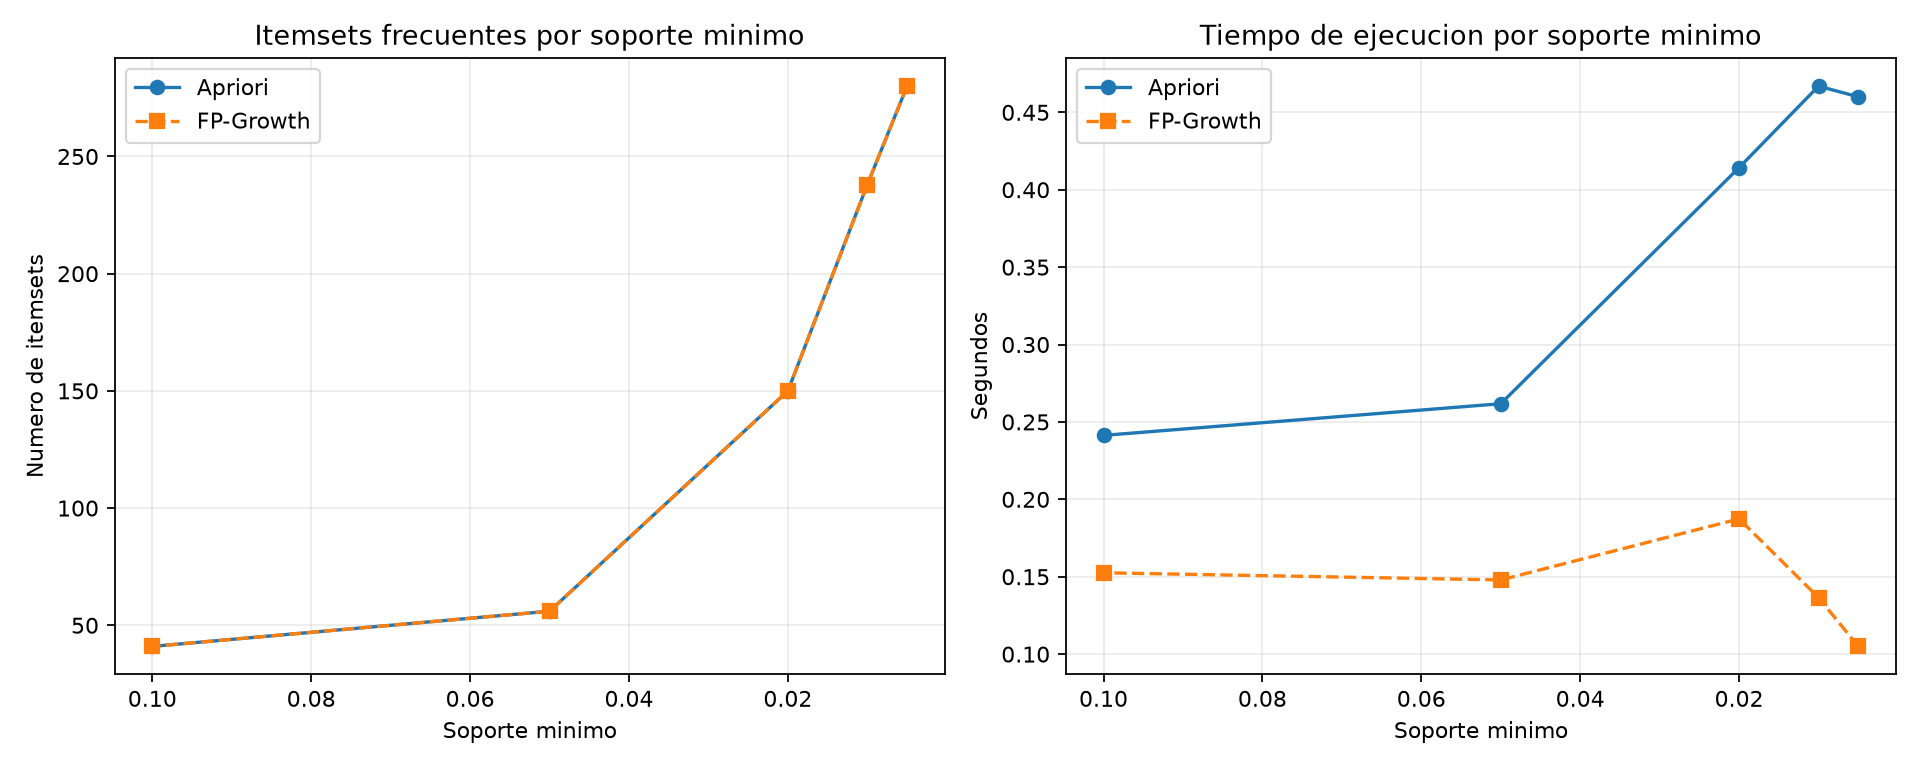
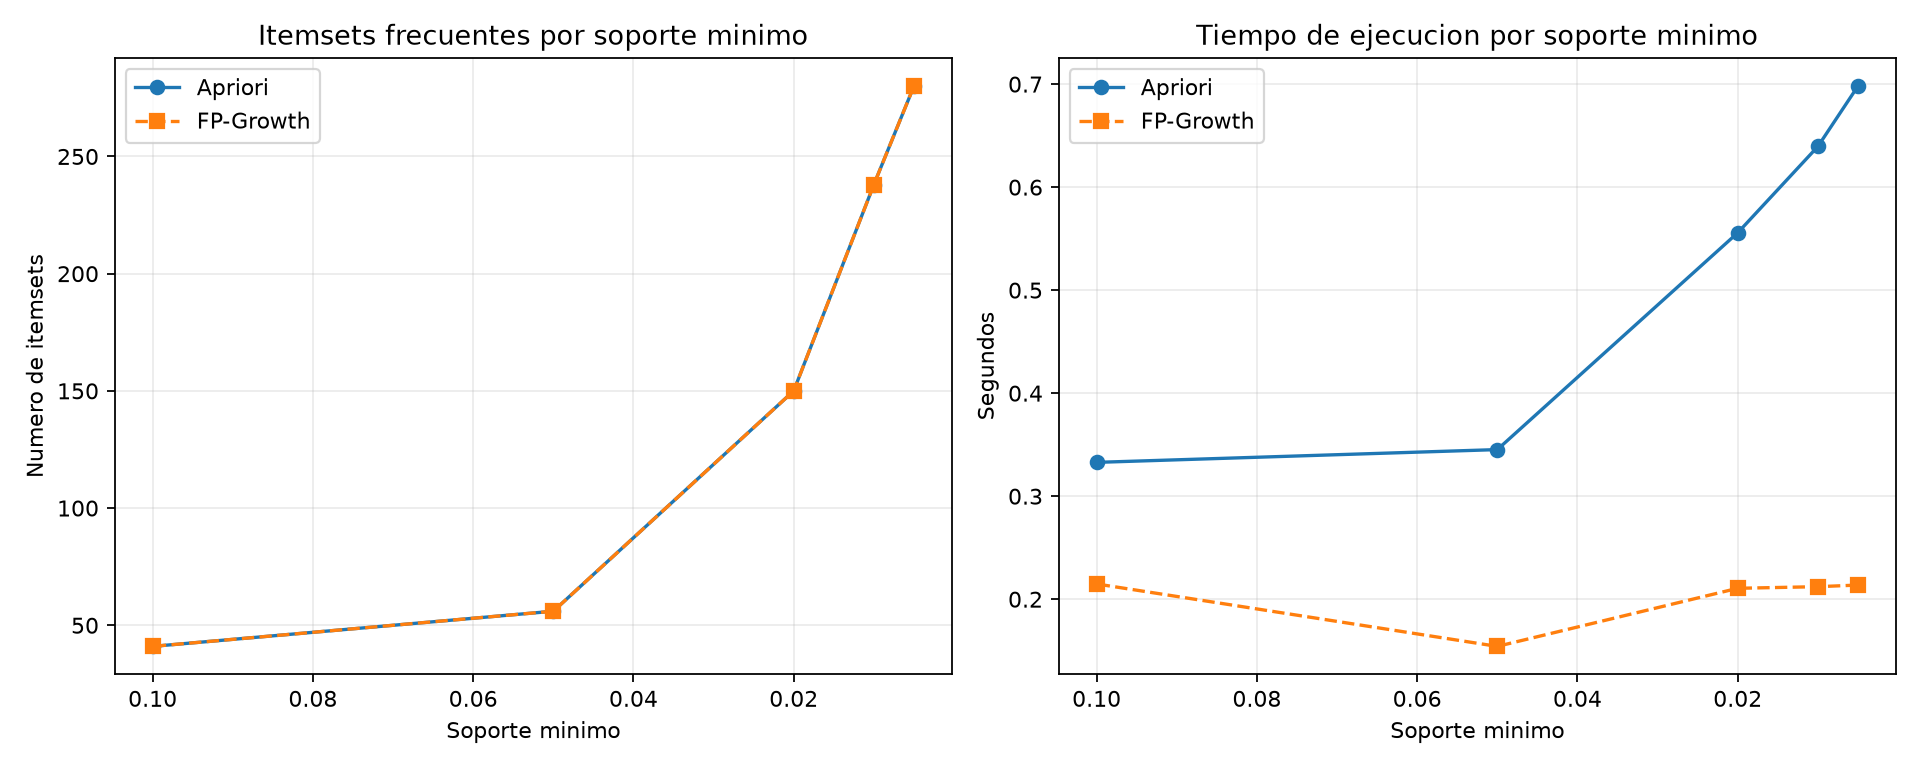
Graficas y visualizacion

diff --git a/proyecto/src/visualization/graficas.py b/proyecto/src/visualization/graficas.py
@@ -1,0 +1,94 @@
+from pathlib import Path
+
+import pandas as pd
+import matplotlib
+matplotlib.use("Agg")
+import matplotlib.pyplot as plt
+
+
+PROYECTO = Path(__file__).resolve().parents[2]
+DATOS = PROYECTO / "data" / "data-processed"
+FIGURAS = PROYECTO / "figures"
+
+
+def graficar_algoritmos():
+    archivo = DATOS / "comparacion_algoritmos.csv"
+
+    if not archivo.exists():
+        print("Falta comparacion_algoritmos.csv para hacer las graficas")
+        return
+
+    datos = pd.read_csv(archivo)
+    datos = datos.sort_values("min_support")
+    FIGURAS.mkdir(parents=True, exist_ok=True)
+
+    #Los dos algoritmos deben encontrar la misma cantidad de itemsets
+    plt.figure(figsize=(8, 5))
+    plt.plot(datos["min_support"], datos["itemsets_apriori"], marker="o", label="Apriori")
+    plt.plot(datos["min_support"], datos["itemsets_fp_growth"], marker="s", linestyle="--", label="FP-Growth")
+    plt.title("Itemsets frecuentes segun el soporte minimo")
+    plt.xlabel("Soporte minimo")
+    plt.ylabel("Numero de itemsets")
+    plt.legend()
+    plt.grid(alpha=0.3)
+    plt.tight_layout()
+    plt.savefig(FIGURAS / "itemsets_por_soporte.png", dpi=160)
+    plt.close()
+
+    #Comparamos los tiempos con los mismos valores de soporte
+    plt.figure(figsize=(8, 5))
+    plt.plot(datos["min_support"], datos["tiempo_apriori_segundos"], marker="o", label="Apriori")
+    plt.plot(datos["min_support"], datos["tiempo_fp_growth_segundos"], marker="s", linestyle="--", label="FP-Growth")
+    plt.title("Tiempo de ejecucion de los algoritmos")
+    plt.xlabel("Soporte minimo")
+    plt.ylabel("Tiempo (segundos)")
+    plt.legend()
+    plt.grid(alpha=0.3)
+    plt.tight_layout()
+    plt.savefig(FIGURAS / "tiempos_algoritmos.png", dpi=160)
+    plt.close()
+
+    print("Graficas de Apriori y FP-Growth guardadas")
+
+
+def graficar_metricas():
+    archivo = DATOS / "reglas_asociacion.csv"
+
+    if not archivo.exists():
+        print("Falta reglas_asociacion.csv para graficar las metricas")
+        return
+
+    datos = pd.read_csv(archivo)
+
+    if datos.empty:
+        print("No hay reglas para graficar")
+        return
+
+    FIGURAS.mkdir(parents=True, exist_ok=True)
+
+    #Vemos como se distribuyen las tres metricas entre las reglas encontradas
+    fig, graficas = plt.subplots(1, 3, figsize=(14, 4))
+    columnas = ["soporte", "confianza", "lift"]
+    nombres = ["Soporte", "Confianza", "Lift"]
+
+    for i in range(3):
+        graficas[i].hist(datos[columnas[i]], bins=15, edgecolor="black")
+        graficas[i].set_title(nombres[i])
+        graficas[i].set_xlabel(nombres[i])
+        graficas[i].set_ylabel("Numero de reglas")
+
+    fig.suptitle("Distribucion de las metricas de asociacion")
+    plt.tight_layout()
+    plt.savefig(FIGURAS / "distribucion_metricas.png", dpi=160)
+    plt.close()
+
+    print("Grafica de metricas guardada")
+
+
+def generar_graficas():
+    graficar_algoritmos()
+    graficar_metricas()
+
+
+if __name__ == "__main__":
+    generar_graficas()

diff --git a/proyecto/main.py b/proyecto/main.py
@@ -1,32 +1,43 @@
+from src.preprocessing import transacciones
+from src.mining.algoritmos import ejecutar_comparacion
+from src.association import reglas, analisis_reglas
+from src.visualization.graficas import generar_graficas
 
-from pathlib import Path
-import runpy
 
+def procesar_datos():
+    #Preparamos los datos originales para obtener las transacciones por hora
+    datos = transacciones.cargar_datos()
+    transacciones.analizar_faltantes(datos)
+    datos = transacciones.preparar_fechas(datos)
+    transacciones.verificar_faltantes(datos)
+    datos = transacciones.eliminar_faltantes(datos)
+    transacciones.analizar_cobertura_horaria(datos)
 
-RUTA_PROYECTO = Path(__file__).resolve().parent
+    #Agrupamos los registros y generamos los items
+    datos = transacciones.agrupar_por_hora(datos)
+    datos = transacciones.generar_items(datos)
+    datos = transacciones.generar_items_temporales(datos)
+    transacciones.guardar_dataset(datos)
 
-def ejecutar_script(ruta: str) -> None:
-    archivo = RUTA_PROYECTO / ruta
-    if not archivo.is_file():
-        raise FileNotFoundError(f"No se encontró el archivo: {archivo}")
-    print(f"\n{'=' * 60}")
-    print(f"Ejecutando: {ruta}")
-    print(f"{'=' * 60}\n")
-
-    runpy.run_path(str(archivo), run_name="__main__")
 
 def main():
-    scripts = [
-        "src/preprocessing/transacciones.py",
-        "src/mining/algoritmos.py",
-        "src/association/reglas.py",
-        "src/association/analisis_reglas.py"
-    ]
+    print("\n1. Preparando las transacciones")
+    procesar_datos()
 
-    for script in scripts:
-        ejecutar_script(script)
+    print("\n2. Ejecutando Apriori y FP-Growth")
+    ejecutar_comparacion()
 
-    print("\nProceso completado correctamente.")
+    print("\n3. Generando las reglas de asociacion")
+    reglas.main()
+
+    print("\n4. Analizando las reglas")
+    analisis_reglas.main()
+
+    print("\n5. Generando las graficas")
+    generar_graficas()
+
+    print("\nTerminado correctamente")
+
 
 if __name__ == "__main__":
     main()

diff --git a/proyecto/README.md b/proyecto/README.md
@@ -37,60 +37,91 @@ El archivo original contiene **2,075,259 registros y 9 columnas**.
 
 ```text
 proyecto/
+│
 ├── data/
 │   ├── data-raw/
-│   │   └── household_power_consumption.txt
+│   │   └── .gitkeep
+│   │
 │   └── data-processed/
-│       └── input_reglas_asociacion.csv
+│       └── .gitkeep
+│
+├── figures/
 │
 ├── src/
 │   ├── preprocessing/
 │   │   └── transacciones.py
+│   │
 │   ├── mining/
+│   │   └── algoritmos.py
+│   │
 │   ├── association/
+│   │   ├── reglas.py
+│   │   └── analisis_reglas.py
+│   │
 │   └── visualization/
+│       ├── __init__.py
+│       └── graficas.py
 │
-├── figures/
-├── presentacion/
 ├── main.py
 ├── requirements.txt
+├── .gitignore
 └── README.md
 ```
 
-El dataset original no se incluye en GitHub debido a su tamaño. Debe descargarse desde UCI y colocarse en `data/data-raw/`.
+El dataset original no se incluye en el repositorio debido a
+su tamaño. Se debe descargar desde UCI Machine Learning
+Repository y colocar en `data/data-raw/`
 
 ## 4. Instalación y ejecución
 
-Desde la carpeta `proyecto/`, crear y activar un entorno virtual:
+Para ejecutar el proyecto es necesario tener Python instalado
+y descargar el dataset original desde UCI Machine Learning
+Repository.
+
+El archivo `household_power_consumption.txt` debe colocarse
+en `data/data-raw/`.
+
+### 4.1. Crear el entorno virtual
+
+Desde la carpeta `proyecto/`, ejecutar:
 
 ```bash
 python3 -m venv .venv
+```
+
+Activar el entorno virtual:
+
+```bash
 source .venv/bin/activate
 ```
 
-Instalar las dependencias:
+### 4.2. Instalar las dependencias
+
+Instalar las bibliotecas necesarias:
 
 ```bash
 python -m pip install -r requirements.txt
 ```
 
-Ejecutar el preprocesamiento:
+### 4.3. Ejecutar la práctica
+
+Para ejecutar todas las etapas del programa:
 
 ```bash
-python src/preprocessing/transacciones.py
+python main.py
 ```
 
-Esto genera el archivo `input_reglas_asociacion.csv` dentro de `data/data-processed/`.
+El programa realiza las siguientes actividades:
 
-Ejecutar Apriori y FP-Growth:
+1. Carga y limpieza del dataset original.
+2. Construcción de las transacciones horarias.
+3. Ejecución de Apriori y FP-Growth.
+4. Generación de las reglas de asociación.
+5. Analisis de las reglas encontradas.
+6. Generación de las graficas.
 
-```bash
-python src/mining/algoritmos.py
-```
-
-Esto genera los archivos e imagen `comparacion_algoritmos.csv`,  `input_reglas_asociacion.csv` y `itemsets_frecuentes.csv`, `comparacion_algoritmos` dentro de `data/data-processed/` y `figures/comparacion_algoritmos.png` repsectivmante.
-
----
+Los resultados se guardan en las carpetas
+`data/data-processed/` y `figures/`
 
 ## 5. Preprocesamiento y construcción de transacciones 
 
@@ -229,3 +260,66 @@ Los conteos se midieron para min_support = 0.10, 0.05, 0.02, 0.01 y 0.005. En to
 Al bajar el soporte de 0.100 a 0.005, el número de itemsets pasó de 41 a 280. Un umbral bajo permite encontrar patrones poco comunes, pero aumenta el volumen de resultados y el riesgo de incluir coocurrencias casuales. Un umbral alto reduce el costo y deja solo patrones comunes, aunque puede omitir asociaciones raras.
 
 En esta ejecución, Apriori fue más rápido en 0 de 5 umbrales y FP-Growth en 5. Los tiempos son una medición puntual del equipo y pueden variar entre ejecuciones; FP-Growth evita la generación de candidatos, mientras que Apriori es más directo para este conjunto de ítems relativamente acotado.
+
+
+---
+
+
+---
+
+## 6. Integración y visualización de resultados
+
+El archivo `main.py` permite ejecutar todas las etapas de
+la practica, utilizando las funciones desarrolladas en los
+diferentes módulos del proyecto
+
+### 6.1. Visualizaciones
+
+Se utilizo Matplotlib para generar las gráficas y Pandas
+para leer los resultados guardados en archivos CSV.
+
+Las imágenes generadas se guardan en la carpeta `figures/`
+
+**Gráficas de Apriori y FP-Growth:**
+
+- `comparacion_algoritmos.png`: comparación de los algoritmos.
+- `itemsets_por_soporte.png`: cantidad de itemsets frecuentes
+  según el soporte minimo.
+- `tiempos_algoritmos.png`: comparación de los tiempos de
+  ejecución de ambos algoritmos.
+
+**Gráficas de las reglas de asociación:**
+
+- `reglas_asociacion.png`: relación entre soporte, confianza y lift.
+- `top_reglas_lift.png`: diez reglas con mayor lift.
+- `comparacion_metricas_reglas.png`: relación entre confianza y lift.
+- `distribucion_metricas.png`: distribución de soporte, confianza
+  y lift entre las reglas encontradas.
+
+### 6.2. Archivos generados
+
+Los resultados se guardan como archivos CSV en
+`data/data-processed/`
+
+Los principales archivos son:
+
+- `input_reglas_asociacion.csv`
+- `comparacion_algoritmos.csv`
+- `itemsets_frecuentes.csv`
+- `reglas_asociacion.csv`
+
+Tambien se generan archivos con las reglas más relevantes
+según su soporte, confianza y lift
+
+### 6.3. Integración del programa
+
+El programa sigue el siguiente orden:
+
+1. Preprocesamiento de los datos.
+2. Ejecución de Apriori y FP-Growth.
+3. Generación de reglas de asociación.
+4. Análisis de las reglas.
+5. Generación de las visualizaciones.
+
+De esta forma, todo el procedimiento se puede ejecutar
+desde un solo archivo mediante `python main.py`
